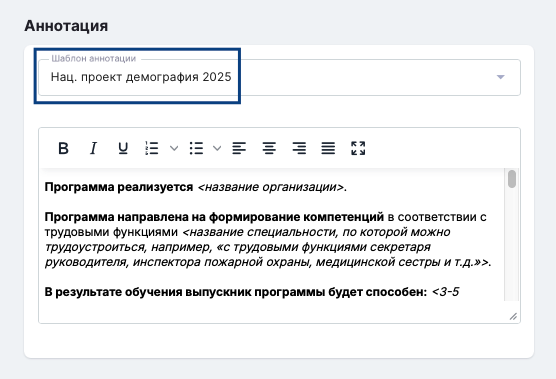
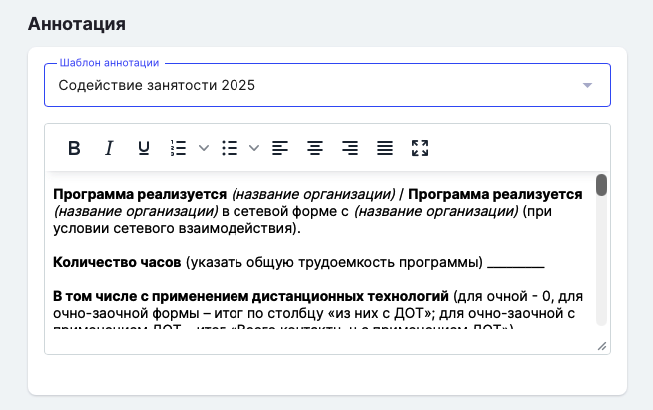
Update 3 files
- instrukcii-po-rabote/dobavit-programmu-v-ramkakh-proekta-kadry/_index.md
   - instrukcii-po-rabote/dobavit-programmu-v-ramkakh-proekta-kadry/dobavit-programmu-v-ramkakh-proekta-kadry-2.png
   - instrukcii-po-rabote/dobavit-programmu-v-ramkakh-proekta-kadry/dobavit-programmu-v-ramkakh-proekta-kadry.png

diff --git a/instrukcii-po-rabote/dobavit-programmu-v-ramkakh-proekta-kadry/_index.md b/instrukcii-po-rabote/dobavit-programmu-v-ramkakh-proekta-kadry/_index.md
@@ -15,7 +15,7 @@ order: 0.1
 
 ## **Добавление Подразделения**
 
-Подразделение - структурная единица организации - следующий шаг для добавления программы дополнительного образования. Если подразделение было создано ранее, повторно добавлять его нет необходимости. [Подробнее](https://informa.gitbook.io/odin/struktura/podrazdelenie)
+Подразделение - структурная единица организации - следующий шаг для добавления программы дополнительного образования. Если подразделение было создано ранее, повторно добавлять его нет необходимости. [Подробнее](./../../struktura/podrazdelenie)
 
 :::info 
 
@@ -25,7 +25,7 @@ order: 0.1
 
 ## **Добавление Программы дополнительного образования**
 
-[Программы дополнительного образования](https://informa.gitbook.io/odin/struktura/programma/programma-dopolnitelnogo-obrazovaniya) создаются на странице Подразделения в одноименном блоке. При добавлении программы укажите проект.
+[Программы дополнительного образования](./../../struktura/README/_index) создаются на странице Подразделения в одноименном блоке. При добавлении программы укажите проект.
 
 :::note 
 
@@ -33,21 +33,21 @@ order: 0.1
 
 :::
 
-![](./dobavit-programmu-v-ramkakh-proekta-kadry.png){width=573px height=492px}
+![](./dobavit-programmu-v-ramkakh-proekta-kadry.png){width=640px height=480px}
 
 ### **Заполнение аннотации**
 
 Заполненная аннотация - это полное описание программы, которое увидит гражданин при подаче заявки на участие в проекте на портале Работа России. Придерживайтесь представленного образца.
 
-![](./dobavit-programmu-v-ramkakh-proekta-kadry-2.png){width=556px height=379px}
+![](./dobavit-programmu-v-ramkakh-proekta-kadry-2.png){width=653px height=410px}
 
-Добавленная программа проходит модерацию Федерального оператора во Flow перед размещением на портале РР и должна быть отредактирована представителем образовательного партнёра по запросу проверяющего. [Подробнее](https://informa.gitbook.io/flow-partner/programmy/rabota-s-programmoi)
+Добавленная программа проходит модерацию Федерального оператора во Flow перед размещением на портале РР и должна быть отредактирована представителем образовательного партнёра по запросу проверяющего. [Подробнее](https://www.flow-crm.study/flowtsuhelpop/programmy/rabota-s-programmoi)
 
 :::info 
 
 Единожды опубликованную программы на портале Работа России редактировать **запрещено**. **Ранее** исключение составляла аннотация, её можно было отредактировать через запрос в поддержку в любое время, сейчас такой возможности нет.
 
-**В 2025 году аннотацию можно будет отредактировать только после снятия программы с публикации.**
+**Аннотацию можно будет отредактировать только после снятия программы с публикации.**
 
 После редактирования потребуется повторная отправка на публикацию и проверка ЦЗН.
 
